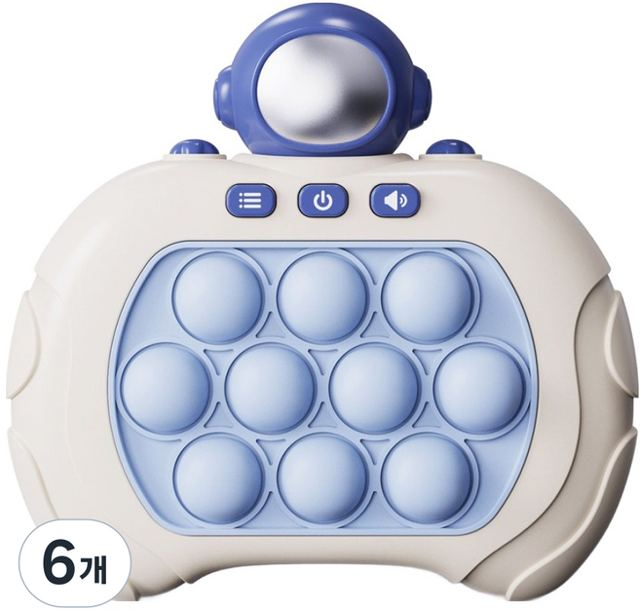
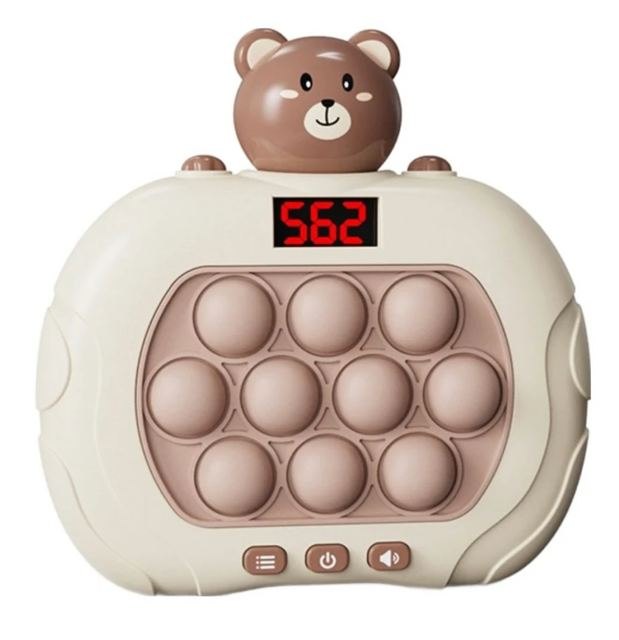
현장 요청 수정: 키링 사진 교체, 곰인형 키링 1개 표기, 푸쉬팝 사진 교체, 킨더 조이 2개 40포인트
- 치이카와 인형 가방 키링: 한 개만 나가는 사진으로 교체
- 곰인형 키링: 사진 교체, 이름을 "곰인형 키링(랜덤 1개)"로 변경
- 푸쉬팝 게임기: 개수 글자가 없는 사진으로 교체
- 킨더 조이 초콜릿 핑크: "(2개)", 40포인트로 변경

diff --git a/data.js b/data.js
@@ -4,7 +4,7 @@
    ============================================================ */
 
 /* 파일을 새로 올릴 때마다 바뀌는 값. css/js/사진 주소 뒤에 붙여서 브라우저가 예전 파일을 쓰지 않게 한다. */
-const VERSION = "20261125030644";
+const VERSION = "20261125103135";
 
 /* ---------- 1. 사이트 기본 정보 ----------
    logo, banner, gallery, info.photo, footerLogo 는 아래 IMG 에 있는 이름이다. */
@@ -56,7 +56,7 @@ const PRODUCTS = [
   {"cat": "인형", "name": "다다랜드 애착 바디필로우\n거위 인형", "points": 200, "img": "images/products/doll-06.jpg"},
   {"cat": "인형", "name": "오후꽃 산리오 인형키링\n포근한 감성(포차코)", "points": 165, "img": "images/products/doll-07.jpg"},
   {"cat": "인형", "name": "모찌 깜냥 고양이 인형", "points": 110, "img": "images/products/doll-08.jpg"},
-  {"cat": "인형", "name": "곰인형 키링(랜덤)", "points": 20, "img": "images/products/doll-09.jpg"},
+  {"cat": "인형", "name": "곰인형 키링(랜덤 1개)", "points": 20, "img": "images/products/doll-09.jpg"},
   {"cat": "장난감", "name": "산리오 웹툰그리기세트", "points": 600, "img": "images/products/toy-01.jpg"},
   {"cat": "장난감", "name": "공룡 6 in 1 자동차 운반차\n장난감 미니카 세트", "points": 460, "img": "images/products/toy-02.jpg"},
   {"cat": "장난감", "name": "베이블레이드X BX-23 스타터\n피닉스소어 9-60GF", "points": 460, "img": "images/products/toy-03.jpg"},
@@ -96,9 +96,9 @@ const PRODUCTS = [
   {"cat": "문구랑 슈퍼랑", "name": "쓸수록 귀여운동물이 되는 지우개", "points": 5, "img": "images/products/stationery-12.jpg", "group": "문구"},
   {"cat": "문구랑 슈퍼랑", "name": "곽과자 12종 세트", "points": 350, "img": "images/products/stationery-13.jpg", "group": "슈퍼"},
   {"cat": "문구랑 슈퍼랑", "name": "멘토스 미니 레인보우 캔디", "points": 170, "img": "images/products/stationery-14.jpg", "group": "슈퍼"},
-  {"cat": "문구랑 슈퍼랑", "name": "얼려먹는초코만들기(랜덤)", "points": 20, "img": "images/products/stationery-15.jpg", "group": "슈퍼"},
-  {"cat": "문구랑 슈퍼랑", "name": "초코픽(1개)", "points": 20, "img": "images/products/stationery-16.jpg", "group": "슈퍼"},
-  {"cat": "문구랑 슈퍼랑", "name": "킨더 조이 초콜릿 핑크(1개)", "points": 20, "img": "images/products/stationery-17.jpg", "group": "슈퍼"},
+  {"cat": "문구랑 슈퍼랑", "name": "킨더 조이 초콜릿 핑크(2개)", "points": 40, "img": "images/products/stationery-15.jpg", "group": "슈퍼"},
+  {"cat": "문구랑 슈퍼랑", "name": "얼려먹는초코만들기(랜덤)", "points": 20, "img": "images/products/stationery-16.jpg", "group": "슈퍼"},
+  {"cat": "문구랑 슈퍼랑", "name": "초코픽(1개)", "points": 20, "img": "images/products/stationery-17.jpg", "group": "슈퍼"},
   {"cat": "문구랑 슈퍼랑", "name": "모구모구 과채음료 리치맛", "points": 15, "img": "images/products/stationery-18.jpg", "group": "슈퍼"},
   {"cat": "문구랑 슈퍼랑", "name": "호음호음 꼬마솜사탕(1개)", "points": 5, "img": "images/products/stationery-19.jpg", "group": "슈퍼"},
   {"cat": "패션", "name": "어린이 가을 잠옷세트\n치이카와 긴팔 긴바지 파자마\n사이즈 14/16", "points": 310, "img": "images/products/fashion-01.jpg"},

diff --git a/index.html b/index.html
@@ -6,7 +6,7 @@
 <meta name="color-scheme" content="light">
 <meta name="theme-color" content="#e8472b">
 <title>지혜마을 바이블 페스티벌</title>
-<link rel="stylesheet" href="style.css?v=20261125030644">
+<link rel="stylesheet" href="style.css?v=20261125103135">
 </head>
 <body>
 
@@ -35,9 +35,9 @@
 <button class="to-top" id="toTop" type="button" aria-label="맨 위로"></button>
 
 <!-- 1) 사이트 설정과 상품 데이터 (수정은 data.js 에서) -->
-<script src="data.js?v=20261125030644"></script>
+<script src="data.js?v=20261125103135"></script>
 
 <!-- 2) 화면 동작 -->
-<script src="app.js?v=20261125030644"></script>
+<script src="app.js?v=20261125103135"></script>
 </body>
 </html>
